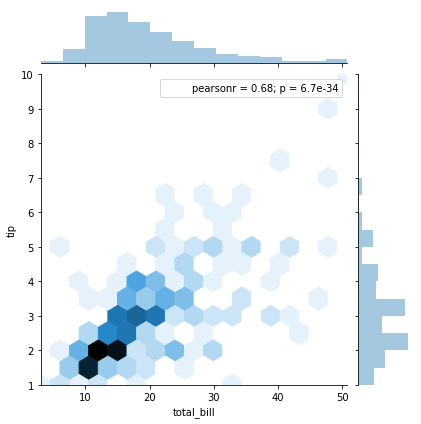
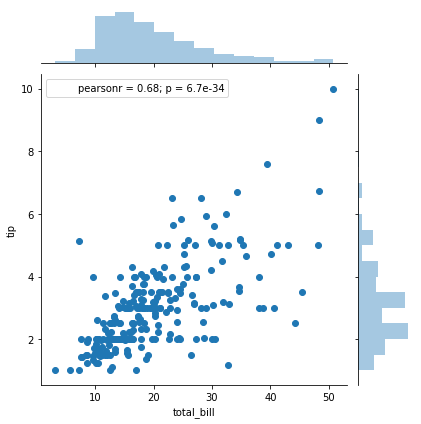
Jointplot
Jointplot

diff --git a/DataScience-MachineLearning-Py/README.md b/DataScience-MachineLearning-Py/README.md
@@ -1488,7 +1488,7 @@ sns.distplot(tips['total_bill'],kde=False,bins=40)
 ```
 # DISTRIBUTION OF TIPS on TOTAL_BILL
 # HIGHER THE BILL, HIGER THE TIPS.
-# kind - By Default scattared, hex, reg(linear regression), kde(density)
-sns.jointplot(x='total_bill',y='tip',data=tips,kind='hex')
+# kind - By Default scatter, hex, reg(linear regression), kde(density)
+sns.jointplot(x='total_bill',y='tip',data=tips,kind='scatter')
 ```
 ![Alt text](https://github.com/vaibhavpatilai/DataScience/blob/master/DataScience-MachineLearning-Py/Code/05.Python-for-Data-Visualization-Seaborn/plots/joinplot.png?raw=true "Plot")
